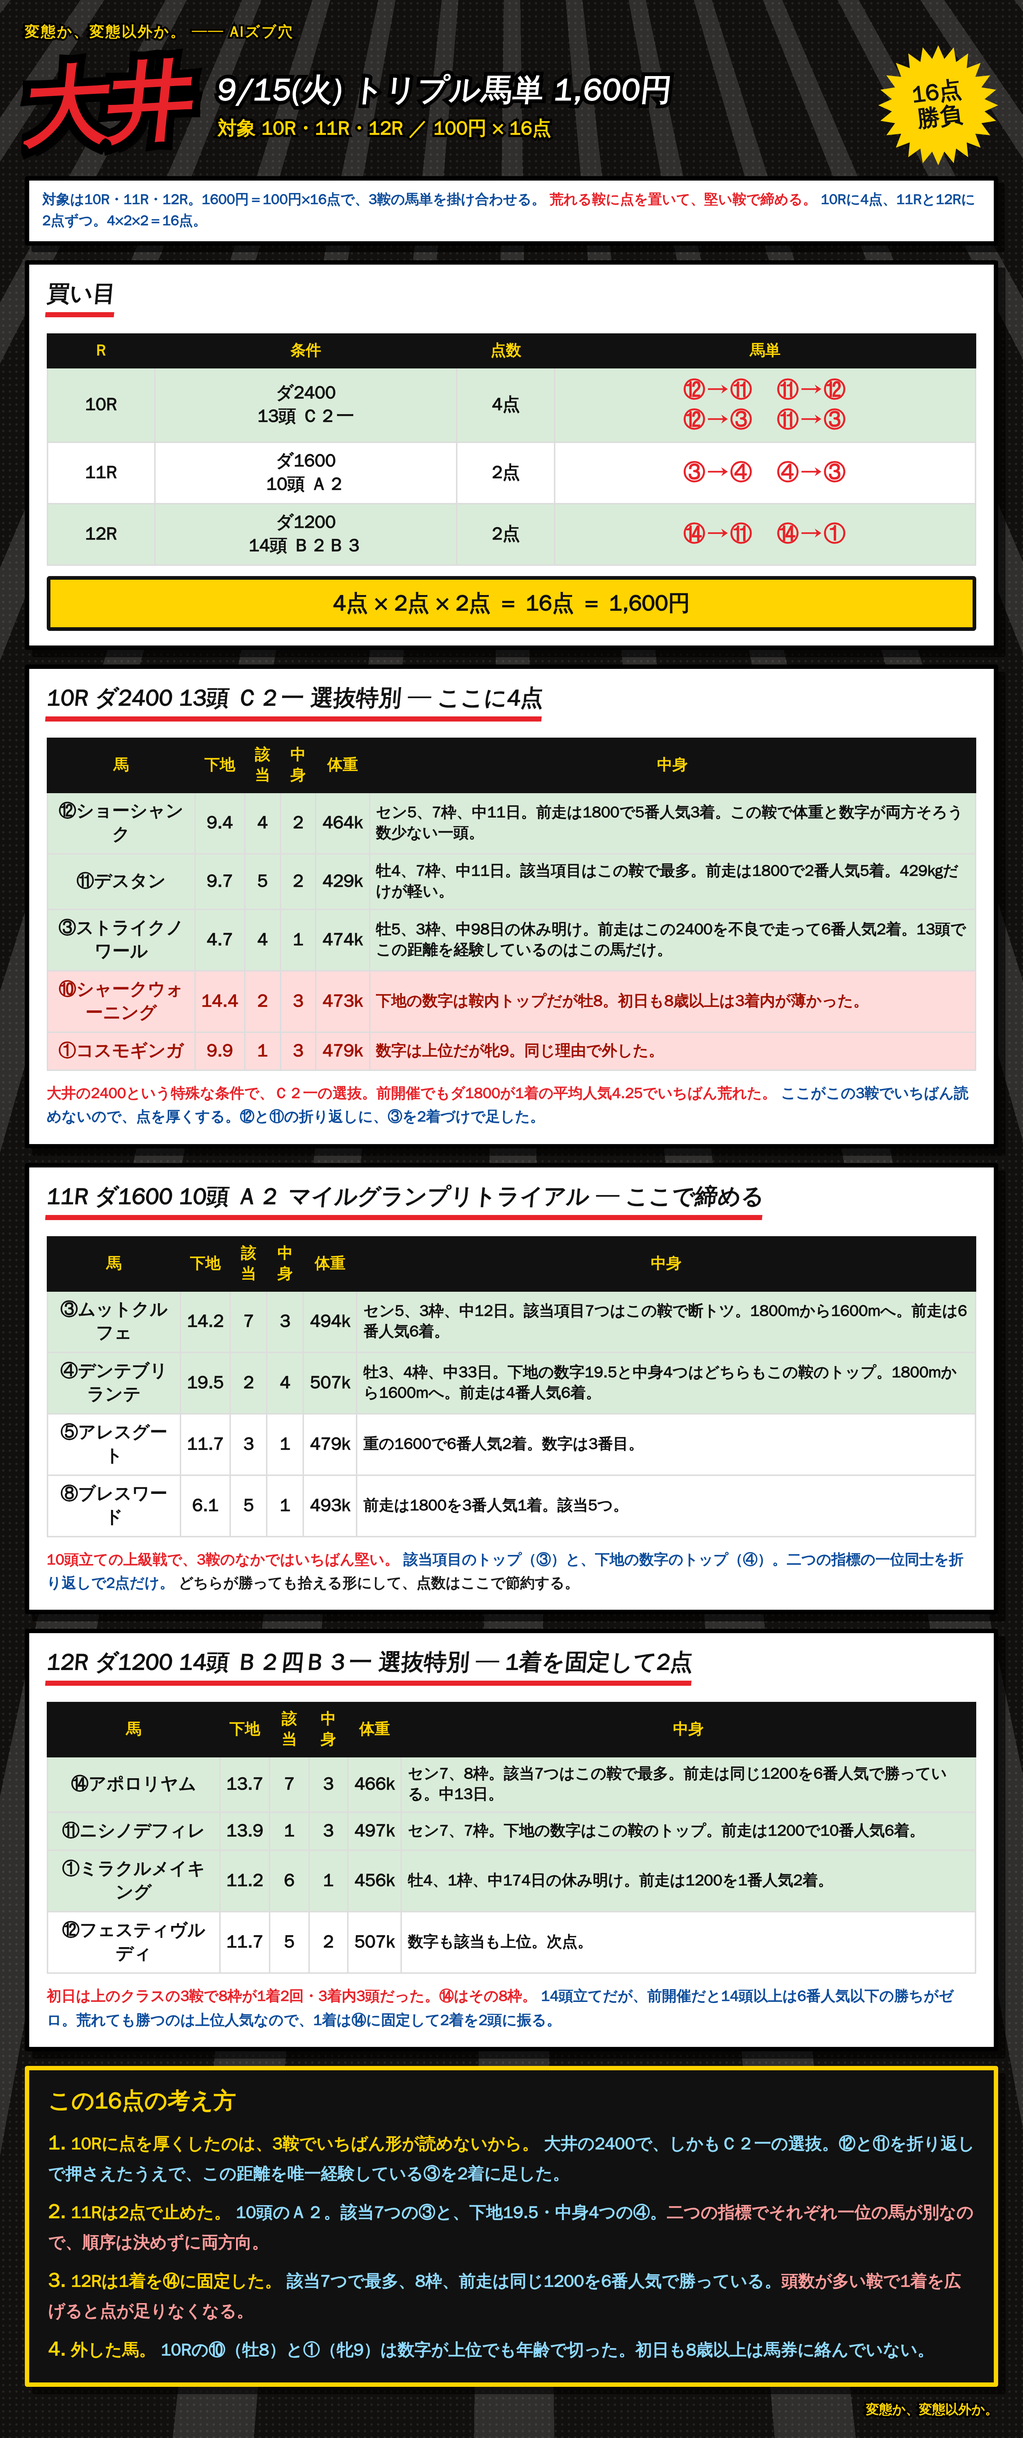
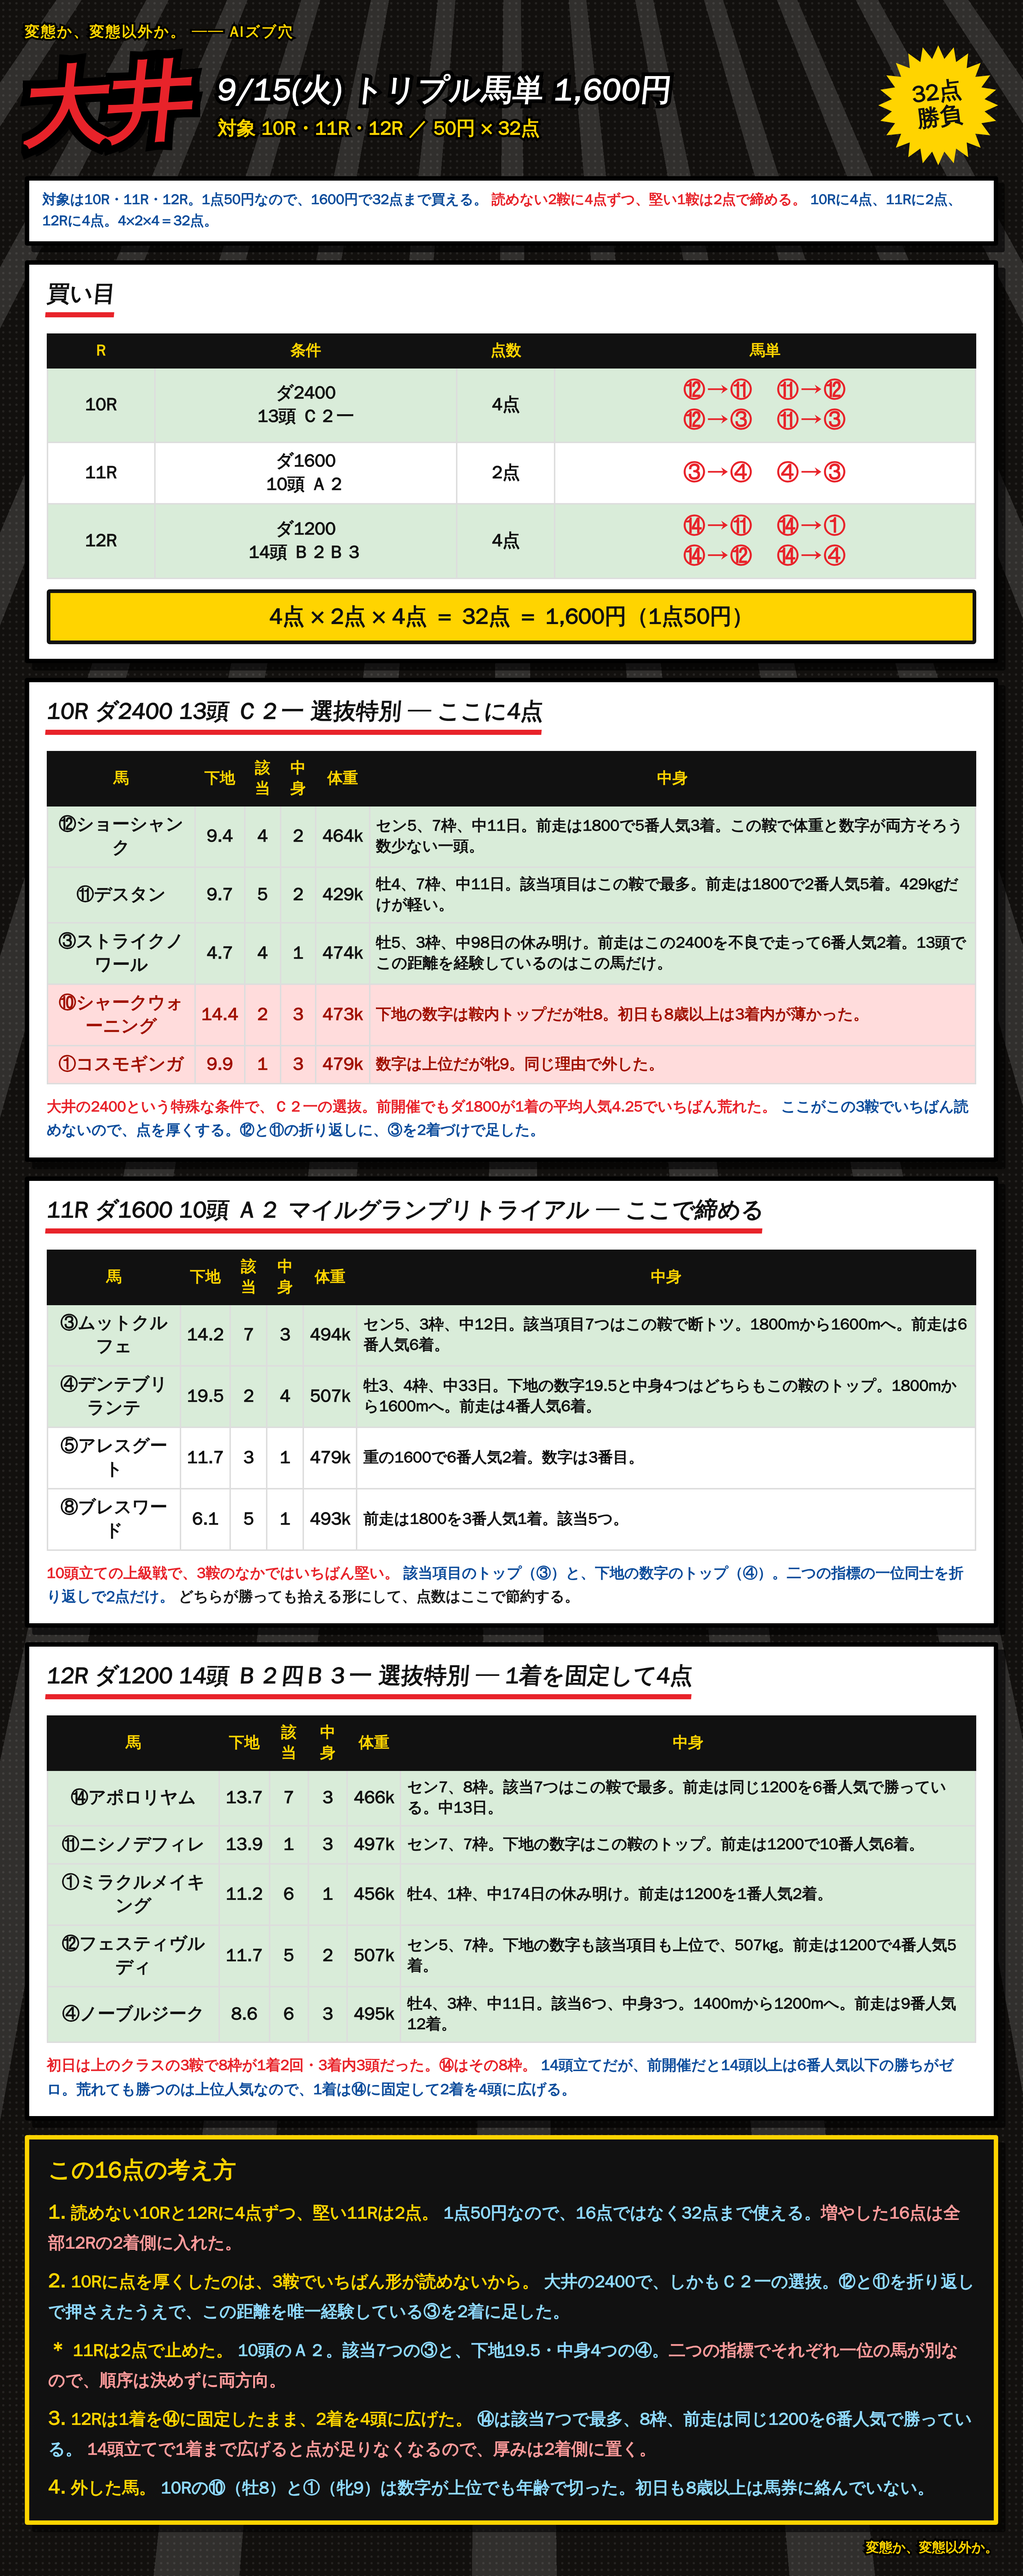
大井 9/15: トリプル馬単を32点に（1点50円）。12Rの2着を4頭に拡大
Claude-Session: https://claude.ai/code/session_01RoHscZkr96FNaxQWvUqgEw

diff --git a/notes/live/2026-09-15/oi_triple.html b/notes/live/2026-09-15/oi_triple.html
@@ -106,11 +106,11 @@ table.bt td.l{text-align:left;font-size:21px}
 </style></head>
 <body><div class="card"><div class="lines"></div><div class="tone"></div><div class="inner">
 <div class="kicker">変態か、変態以外か。 ── AIズブ穴</div>
-<div class="head"><div class="gekiga">大井</div><div class="dateblk"><div class="d1">9/15(火) トリプル馬単 1,600円</div><div class="d2">対象 10R・11R・12R ／ 100円 × 16点</div></div><div class="burst"><span>16点<br>勝負</span></div></div>
+<div class="head"><div class="gekiga">大井</div><div class="dateblk"><div class="d1">9/15(火) トリプル馬単 1,600円</div><div class="d2">対象 10R・11R・12R ／ 50円 × 32点</div></div><div class="burst"><span>32点<br>勝負</span></div></div>
 
-<div class="lead"><span class="b">対象は10R・11R・12R。1600円＝100円×16点で、3鞍の馬単を掛け合わせる。</span>
-<span class="r">荒れる鞍に点を置いて、堅い鞍で締める。</span>
-<span class="b">10Rに4点、11Rと12Rに2点ずつ。4×2×2＝16点。</span></div>
+<div class="lead"><span class="b">対象は10R・11R・12R。1点50円なので、1600円で32点まで買える。</span>
+<span class="r">読めない2鞍に4点ずつ、堅い1鞍は2点で締める。</span>
+<span class="b">10Rに4点、11Rに2点、12Rに4点。4×2×4＝32点。</span></div>
 
 <div class="sec">
  <div class="sh">買い目</div>
@@ -120,10 +120,10 @@ table.bt td.l{text-align:left;font-size:21px}
     <td class="k">⑫→⑪　⑪→⑫<br>⑫→③　⑪→③</td></tr>
   <tr><td><b>11R</b></td><td>ダ1600<br>10頭 Ａ２</td><td><b>2点</b></td>
     <td class="k">③→④　④→③</td></tr>
-  <tr class="win"><td><b>12R</b></td><td>ダ1200<br>14頭 Ｂ２Ｂ３</td><td><b>2点</b></td>
-    <td class="k">⑭→⑪　⑭→①</td></tr>
+  <tr class="win"><td><b>12R</b></td><td>ダ1200<br>14頭 Ｂ２Ｂ３</td><td><b>4点</b></td>
+    <td class="k">⑭→⑪　⑭→①<br>⑭→⑫　⑭→④</td></tr>
  </table>
- <div class="tot">4点 × 2点 × 2点 ＝ 16点 ＝ 1,600円</div>
+ <div class="tot">4点 × 2点 × 4点 ＝ 32点 ＝ 1,600円（1点50円）</div>
 </div>
 
 <div class="sec">
@@ -164,7 +164,7 @@ table.bt td.l{text-align:left;font-size:21px}
 </div>
 
 <div class="sec">
- <div class="sh">12R ダ1200 14頭 Ｂ２四Ｂ３一 選抜特別 ─ 1着を固定して2点</div>
+ <div class="sh">12R ダ1200 14頭 Ｂ２四Ｂ３一 選抜特別 ─ 1着を固定して4点</div>
  <table class="bt">
   <tr><th>馬</th><th>下地</th><th>該当</th><th>中身</th><th>体重</th><th class="l">中身</th></tr>
   <tr class="win"><td><b>⑭アポロリヤム</b></td><td>13.7</td><td><b class="r">7</b></td><td>3</td><td>466k</td>
@@ -173,21 +173,26 @@ table.bt td.l{text-align:left;font-size:21px}
     <td class="l">セン7、7枠。<b class="r">下地の数字はこの鞍のトップ。</b>前走は1200で10番人気6着。</td></tr>
   <tr class="win"><td><b>①ミラクルメイキング</b></td><td>11.2</td><td><b>6</b></td><td>1</td><td>456k</td>
     <td class="l">牡4、1枠、<b class="r">中174日の休み明け。</b>前走は1200を1番人気2着。</td></tr>
-  <tr><td>⑫フェスティヴルディ</td><td>11.7</td><td>5</td><td>2</td><td>507k</td>
-    <td class="l">数字も該当も上位。次点。</td></tr>
+  <tr class="win"><td><b>⑫フェスティヴルディ</b></td><td>11.7</td><td>5</td><td>2</td><td>507k</td>
+    <td class="l">セン5、7枠。<b>下地の数字も該当項目も上位で、507kg。</b>前走は1200で4番人気5着。</td></tr>
+  <tr class="win"><td><b>④ノーブルジーク</b></td><td>8.6</td><td><b>6</b></td><td><b>3</b></td><td>495k</td>
+    <td class="l">牡4、3枠、中11日。<b class="r">該当6つ、中身3つ。1400mから1200mへ。</b>前走は9番人気12着。</td></tr>
  </table>
  <div class="note"><b class="r">初日は上のクラスの3鞍で8枠が1着2回・3着内3頭だった。⑭はその8枠。</b>
- <b>14頭立てだが、前開催だと14頭以上は6番人気以下の勝ちがゼロ。荒れても勝つのは上位人気なので、1着は⑭に固定して2着を2頭に振る。</b></div>
+ <b>14頭立てだが、前開催だと14頭以上は6番人気以下の勝ちがゼロ。荒れても勝つのは上位人気なので、1着は⑭に固定して2着を4頭に広げる。</b></div>
 </div>
 
 <div class="big">
  <div class="bh">この16点の考え方</div>
- <div class="it"><span class="no">1.</span> <span class="y">10Rに点を厚くしたのは、3鞍でいちばん形が読めないから。</span>
+ <div class="it"><span class="no">1.</span> <span class="y">読めない10Rと12Rに4点ずつ、堅い11Rは2点。</span>
+ <span class="c">1点50円なので、16点ではなく32点まで使える。<b class="r">増やした16点は全部12Rの2着側に入れた。</b></span></div>
+ <div class="it"><span class="no">2.</span> <span class="y">10Rに点を厚くしたのは、3鞍でいちばん形が読めないから。</span>
  <span class="c">大井の2400で、しかもＣ２一の選抜。⑫と⑪を折り返しで押さえたうえで、この距離を唯一経験している③を2着に足した。</span></div>
- <div class="it"><span class="no">2.</span> <span class="y">11Rは2点で止めた。</span>
+ <div class="it"><span class="no">＊</span> <span class="y">11Rは2点で止めた。</span>
  <span class="c">10頭のＡ２。該当7つの③と、下地19.5・中身4つの④。<b class="r">二つの指標でそれぞれ一位の馬が別なので、順序は決めずに両方向。</b></span></div>
- <div class="it"><span class="no">3.</span> <span class="y">12Rは1着を⑭に固定した。</span>
- <span class="c">該当7つで最多、8枠、前走は同じ1200を6番人気で勝っている。<b class="r">頭数が多い鞍で1着を広げると点が足りなくなる。</b></span></div>
+ <div class="it"><span class="no">3.</span> <span class="y">12Rは1着を⑭に固定したまま、2着を4頭に広げた。</span>
+ <span class="c">⑭は該当7つで最多、8枠、前走は同じ1200を6番人気で勝っている。
+ <b class="r">14頭立てで1着まで広げると点が足りなくなるので、厚みは2着側に置く。</b></span></div>
  <div class="it"><span class="no">4.</span> <span class="y">外した馬。</span>
  <span class="c">10Rの⑩（牡8）と①（牝9）は数字が上位でも年齢で切った。初日も8歳以上は馬券に絡んでいない。</span></div>
 </div>

diff --git a/notes/live/2026-09-15/README.md b/notes/live/2026-09-15/README.md
@@ -36,13 +36,13 @@
 
 カード: `oi_triple.png`
 
-100円 × 16点。**10R 4点 × 11R 2点 × 12R 2点 = 16点**
+**1点50円なので32点**。**10R 4点 × 11R 2点 × 12R 4点 = 32点 = 1,600円**
 
 | R | 条件 | 点数 | 買い目 |
 |---|---|---|---|
 | 10R | ダ2400 13頭 Ｃ２一 | 4 | ⑫→⑪ ／ ⑪→⑫ ／ ⑫→③ ／ ⑪→③ |
 | 11R | ダ1600 10頭 Ａ２ | 2 | ③→④ ／ ④→③ |
-| 12R | ダ1200 14頭 Ｂ２四Ｂ３一 | 2 | ⑭→⑪ ／ ⑭→① |
+| 12R | ダ1200 14頭 Ｂ２四Ｂ３一 | 4 | ⑭→⑪ ／ ⑭→① ／ ⑭→⑫ ／ ⑭→④ |
 
 根拠（399／エッジ／本物／体重）:
 - **10R** ⑫ショーシャンク 9.4/4/2/464k・⑪デスタン 9.7/**5**(鞍内最多)/2/429k・③ストライクノワール 4.7/4/1/474k（中98日の休み明け、**前走はこの2400を不良で6番人気2着。13頭でこの距離の経験はこの馬だけ**）
@@ -53,4 +53,4 @@
   - 10頭のＡ２で3鞍中いちばん堅い → ここで点を節約
 - **12R** ⑭アポロリヤム 13.7/**7**(鞍内最多)/3/466k・**8枠**・前走は同じ1200を6番人気1着／⑪ニシノデフィレ **13.9**(鞍内トップ)/1/3/497k／①ミラクルメイキング 11.2/6/1/456k・中174日
   - 初日は上位クラス3鞍で8枠が1着2回・3着内3頭。⑭はその8枠
-  - 前開催の14頭以上は6番人気以下の勝ちゼロ → 1着は⑭固定、2着を2頭に振る
+  - 前開催の14頭以上は6番人気以下の勝ちゼロ → 1着は⑭固定、2着を4頭に広げる（⑫フェスティヴルディ 11.7/5/2/507k、④ノーブルジーク 8.6/6/3/495k を追加）
